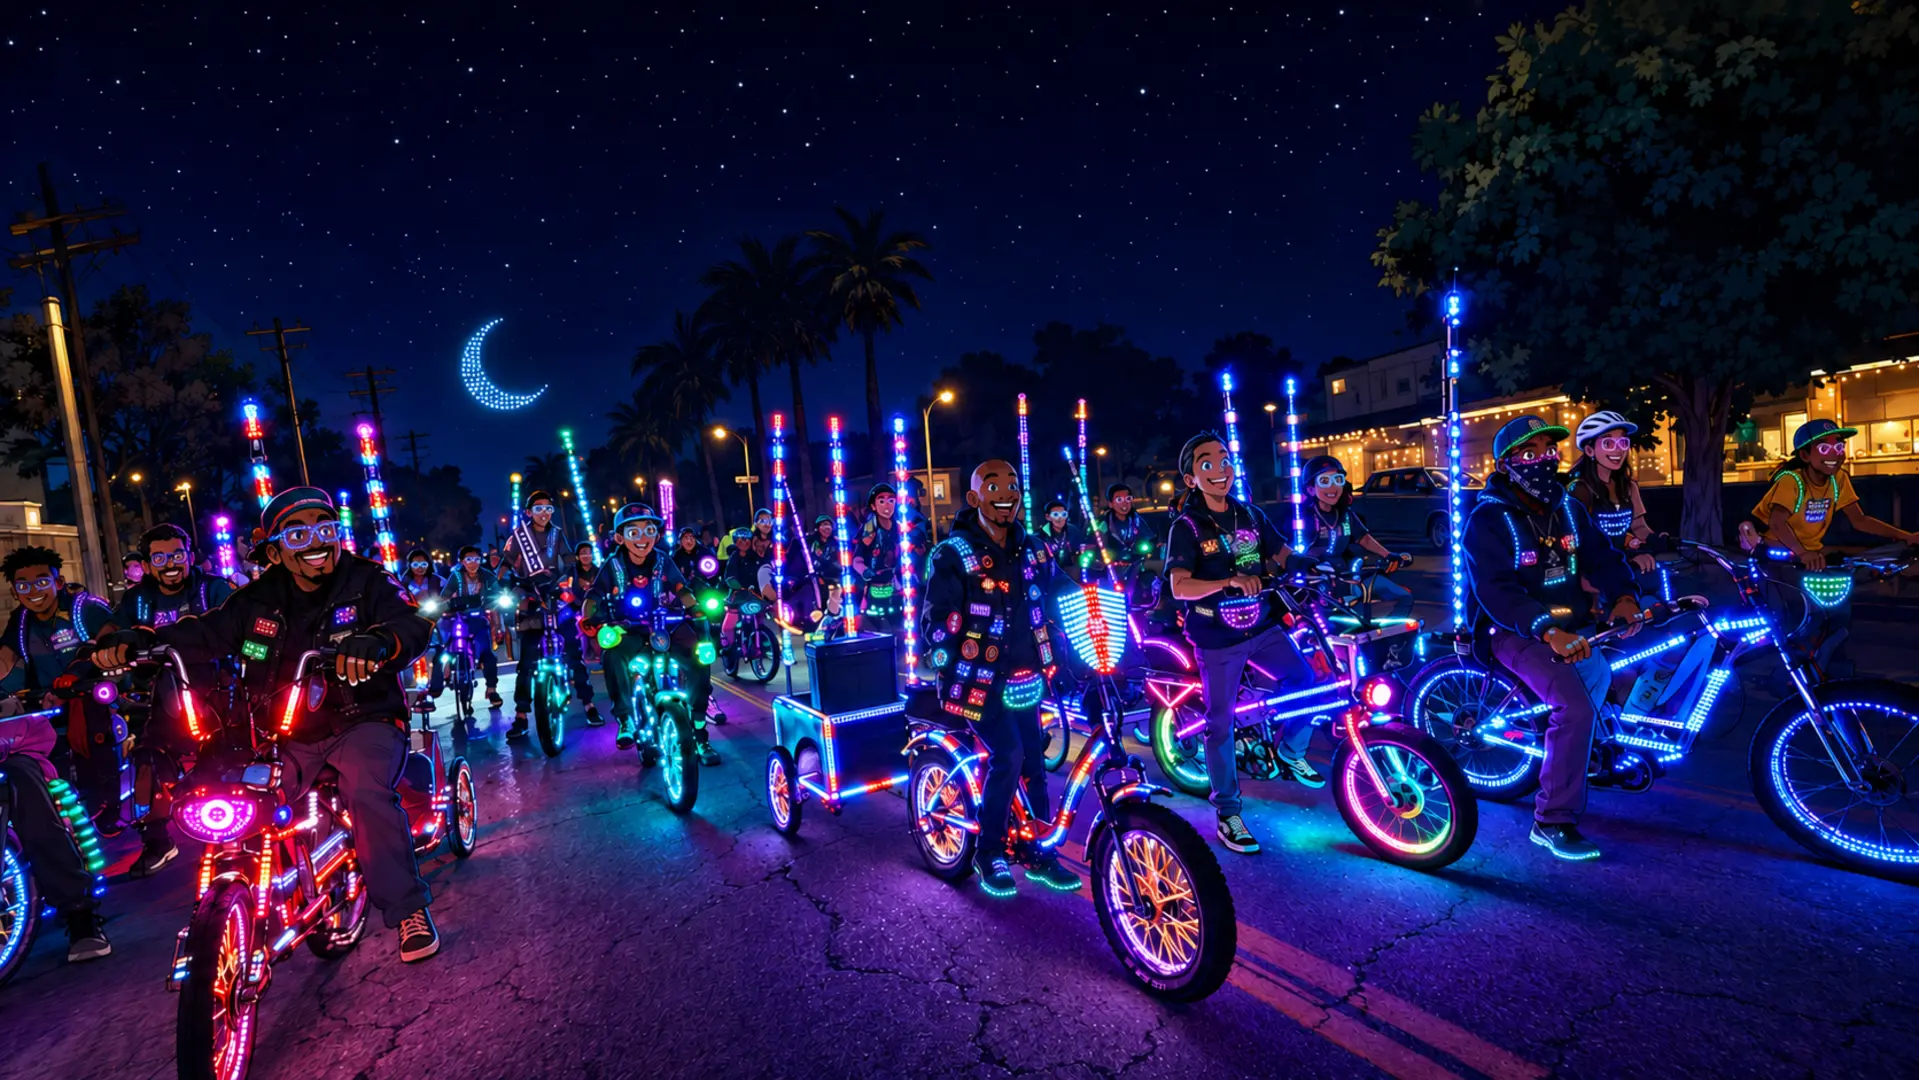
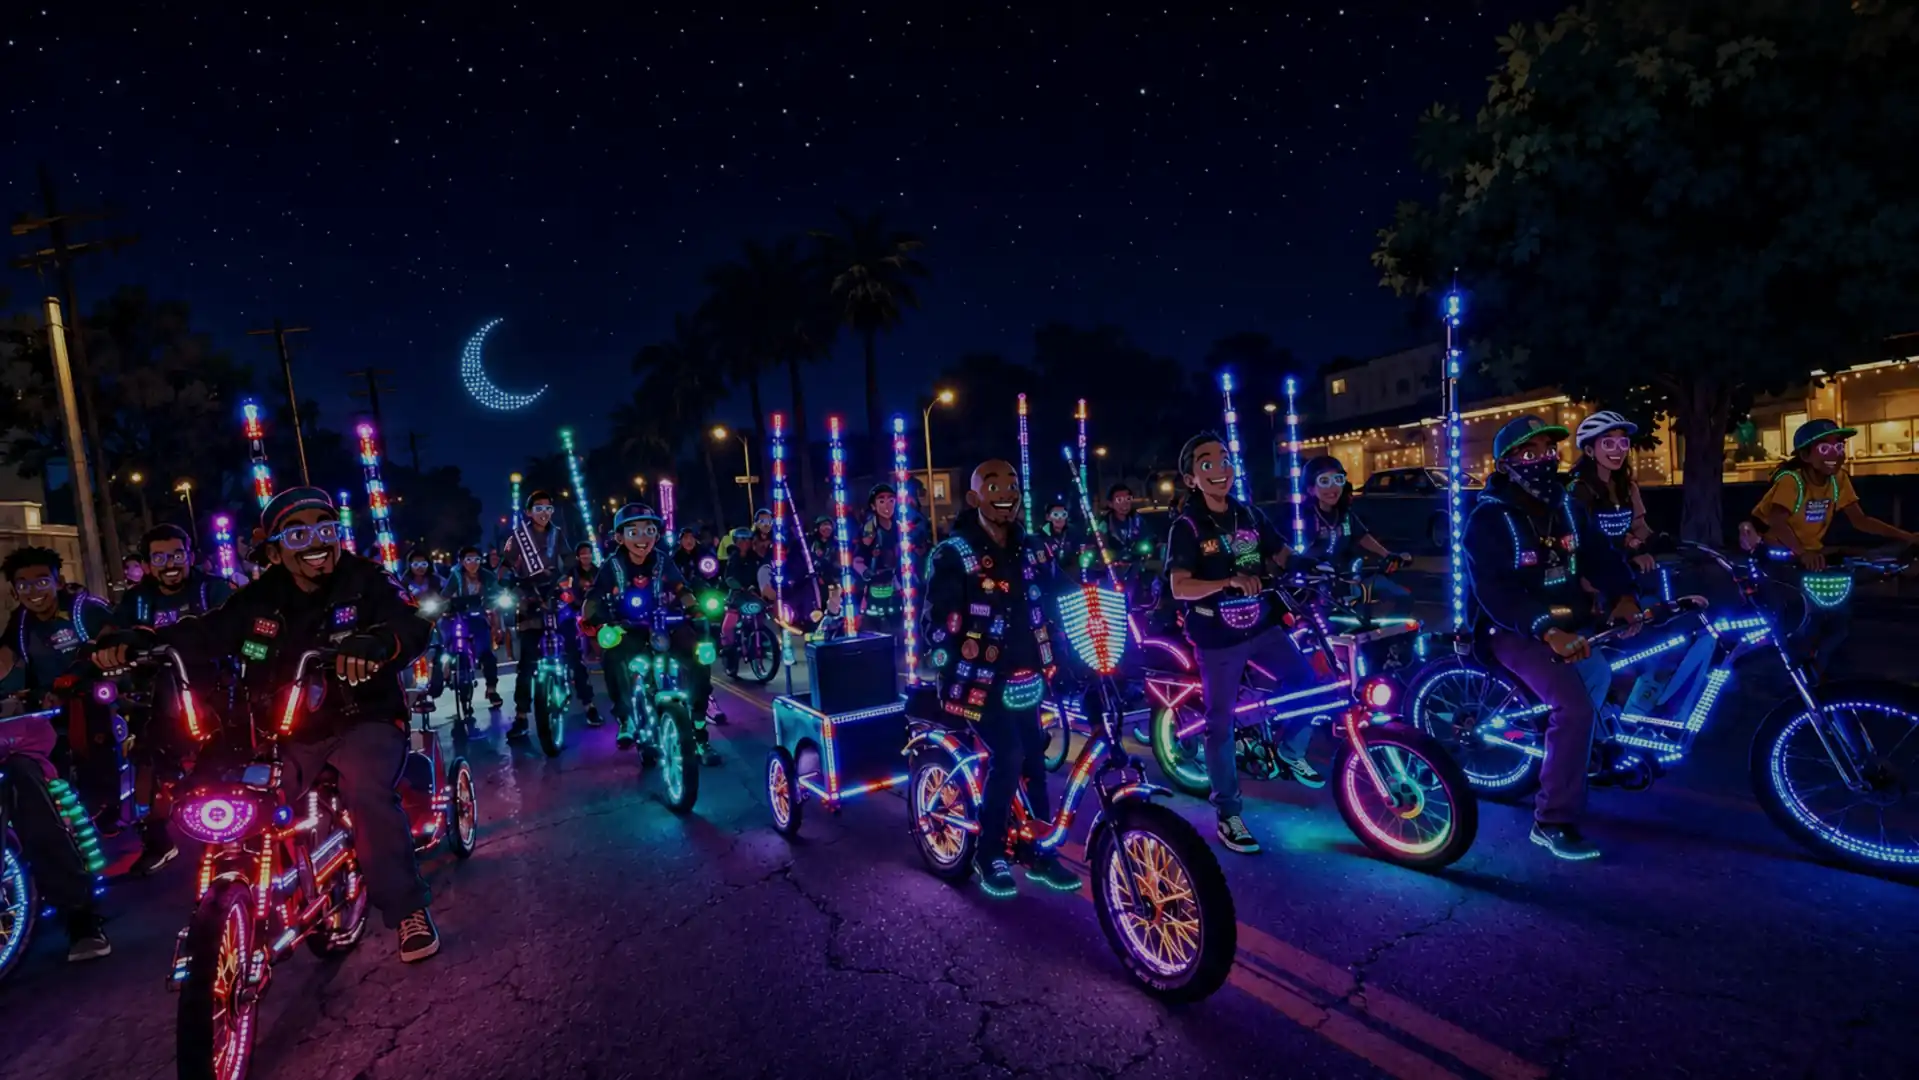
Replace canvas hero with aligned LED flipbook

diff --git a/js/hero-leds.js b/js/hero-leds.js
@@ -1,133 +1,20 @@
 (() => {
-  const canvas = document.getElementById('heroLedCanvas');
-  const hero = canvas?.closest('.hero');
+  const image = document.getElementById('heroLedOverlay');
   const toggle = document.getElementById('heroMagicToggle');
-  if (!canvas || !hero || !toggle) return;
+  if (!image || !toggle) return;
 
-  const ctx = canvas.getContext('2d', { alpha: true });
-  const SOURCE = { w: 1672, h: 941 };
-  const reduceMotion = window.matchMedia('(prefers-reduced-motion: reduce)');
-  const colors = ['#31e6ff', '#158dff', '#8a6dff', '#ff3cad', '#35ff8b', '#ff7a18', '#ff334f', '#fff7d6'];
-  let frame = 0;
-  let running = !reduceMotion.matches;
-  let visible = true;
-  let dpr = 1;
-  let lastDraw = 0;
+  const animated = 'assets/images/shynetyme-led-overlay.gif';
+  const still = 'assets/images/shynetyme-led-overlay-still.webp';
+  const reducedMotion = window.matchMedia('(prefers-reduced-motion: reduce)');
+  let playing = !reducedMotion.matches;
 
-  const line = (x1, y1, x2, y2, count, color, mode='chase', speed=1, phase=0) => ({ kind:'line', x1,y1,x2,y2,count,color,mode,speed,phase });
-  const ring = (x, y, rx, ry, count, color, mode='chase', speed=1, phase=0) => ({ kind:'ring', x,y,rx,ry,count,color,mode,speed,phase });
-  const poly = (points, count, color, mode='chase', speed=1, phase=0) => ({ kind:'poly', points,count,color,mode,speed,phase });
-
-  // Coordinates follow the actual 1672 × 941 hero art: wheel rims, frames,
-  // flag poles, rider accessories, moon and trailers all animate separately.
-  const strips = [
-    line(217,355,222,614,26,'#ff3cad','chase',1.4,.1), line(319,378,325,602,23,'#31e6ff','sparkle',1.2,.4),
-    line(492,373,500,591,24,'#35ff8b','chase',1.0,.7), line(576,360,580,579,25,'#8a6dff','sparkle',1.4,.2),
-    line(679,358,682,575,26,'#158dff','chase',1.5,.5), line(726,354,730,570,26,'#ff334f','beat',1.1,.8),
-    line(780,350,783,566,26,'#31e6ff','sparkle',1.3,.3), line(892,349,896,568,27,'#ff7a18','chase',1.2,.6),
-    line(941,345,945,571,28,'#ff3cad','chase',1.5,.15), line(1065,333,1069,557,27,'#31e6ff','sparkle',1.2,.45),
-    line(1123,329,1127,548,28,'#158dff','chase',1.6,.75), line(1266,258,1270,544,34,'#31e6ff','beat',1.0,.25),
-    ring(197,771,119,125,52,'#ff334f','chase',1.3,.1), ring(403,680,57,62,30,'#ff7a18','sparkle',1.0,.6),
-    ring(574,651,50,55,27,'#31e6ff','chase',1.4,.2), ring(661,686,46,50,25,'#ff3cad','chase',1.2,.7),
-    ring(806,678,47,52,25,'#158dff','sparkle',1.4,.4), ring(1005,787,88,92,44,'#ff7a18','chase',1.15,.15),
-    ring(1182,687,78,82,42,'#ff3cad','chase',1.35,.55), ring(1378,651,72,76,40,'#31e6ff','sparkle',1.1,.3),
-    ring(1608,704,109,113,52,'#158dff','chase',1.45,.8),
-    poly([[934,690],[875,680],[850,615],[914,576],[970,606],[934,690]],34,'#ff334f','beat',1.15,.2),
-    poly([[1102,655],[1043,657],[1082,576],[1172,579],[1211,641]],38,'#ff3cad','chase',1.25,.6),
-    poly([[1326,625],[1286,578],[1370,555],[1454,611],[1398,651]],40,'#158dff','chase',1.4,.35),
-    poly([[1460,640],[1517,556],[1622,610]],28,'#31e6ff','sparkle',1.2,.85),
-    poly([[694,615],[694,725],[780,724],[784,627],[694,615]],34,'#31e6ff','chase',1.25,.4),
-    ring(429,304,31,31,24,'#31e6ff','beat',.8,.1),
-    poly([[241,486],[278,482],[292,519],[260,525]],18,'#8a6dff','sparkle',1.3,.5),
-    poly([[820,518],[855,514],[860,551],[827,553]],18,'#35ff8b','chase',1.0,.2),
-    poly([[1042,472],[1077,477],[1080,515],[1045,513]],18,'#ff3cad','beat',1.2,.7),
-    poly([[1314,393],[1352,396],[1356,427],[1318,426]],18,'#8a6dff','sparkle',1.3,.35)
-  ];
-
-  const stars = Array.from({ length: 95 }, (_, i) => ({
-    x: 30 + ((i * 149) % 1590), y: 14 + ((i * 83) % 275),
-    phase: (i * .173) % 1, size: i % 11 === 0 ? 2.1 : 1.1
-  }));
-
-  function resize() {
-    const rect = hero.getBoundingClientRect();
-    dpr = Math.min(window.devicePixelRatio || 1, 2);
-    canvas.width = Math.round(rect.width * dpr);
-    canvas.height = Math.round(rect.height * dpr);
-    canvas.style.width = `${rect.width}px`;
-    canvas.style.height = `${rect.height}px`;
+  function render() {
+    image.src = playing ? animated : still;
+    toggle.textContent = playing ? 'Pause LED magic' : 'Play LED magic';
+    toggle.setAttribute('aria-pressed', String(!playing));
   }
 
-  function transform() {
-    const w = canvas.width / dpr, h = canvas.height / dpr;
-    const scale = Math.max(w / SOURCE.w, h / SOURCE.h);
-    return { scale, ox: (w - SOURCE.w * scale) / 2, oy: (h - SOURCE.h * scale) / 2 };
-  }
-
-  const samplePolyline = (points, t) => {
-    const lengths=[]; let total=0;
-    for(let i=1;i<points.length;i++){ const l=Math.hypot(points[i][0]-points[i-1][0],points[i][1]-points[i-1][1]); lengths.push(l); total+=l; }
-    let target=t*total;
-    for(let i=0;i<lengths.length;i++){
-      if(target<=lengths[i]){ const q=target/lengths[i]; return [points[i][0]+(points[i+1][0]-points[i][0])*q, points[i][1]+(points[i+1][1]-points[i][1])*q]; }
-      target-=lengths[i];
-    }
-    return points[points.length-1];
-  };
-
-  function pointAt(s, t) {
-    if (s.kind === 'line') return [s.x1+(s.x2-s.x1)*t, s.y1+(s.y2-s.y1)*t];
-    if (s.kind === 'ring') { const a=t*Math.PI*2; return [s.x+Math.cos(a)*s.rx, s.y+Math.sin(a)*s.ry]; }
-    return samplePolyline(s.points, t);
-  }
-
-  function energy(s, i, time) {
-    const p = (i / s.count + time * .00012 * s.speed + s.phase) % 1;
-    if (s.mode === 'chase') return .15 + Math.pow(Math.max(0, Math.sin(p*Math.PI*4)), 7) * .95;
-    if (s.mode === 'beat') return .2 + Math.pow((Math.sin(time*.006*s.speed+s.phase*7)+1)/2, 5) * .85;
-    const hash = Math.sin((i+1)*91.73 + Math.floor(time/95*s.speed)*17.13) * 43758.54;
-    return .18 + (hash-Math.floor(hash) > .76 ? .95 : .18);
-  }
-
-  function drawLed(x,y,color,power,size,tf) {
-    const px=tf.ox+x*tf.scale, py=tf.oy+y*tf.scale;
-    ctx.globalAlpha=Math.min(1,power);
-    ctx.fillStyle=color; ctx.shadowColor=color; ctx.shadowBlur=(5+power*15)*tf.scale;
-    ctx.beginPath(); ctx.arc(px,py,(size+power*1.4)*tf.scale,0,Math.PI*2); ctx.fill();
-    ctx.globalAlpha=.8*power; ctx.fillStyle='#fff'; ctx.shadowBlur=0;
-    ctx.beginPath(); ctx.arc(px,py,Math.max(.7,size*.28)*tf.scale,0,Math.PI*2); ctx.fill();
-  }
-
-  function draw(time=0) {
-    const w=canvas.width/dpr,h=canvas.height/dpr;
-    ctx.setTransform(dpr,0,0,dpr,0,0); ctx.clearRect(0,0,w,h);
-    const tf=transform(); ctx.globalCompositeOperation='lighter';
-    stars.forEach((s,i)=>drawLed(s.x,s.y,i%13===0?'#31e6ff':'#fff',.15+.8*Math.pow((Math.sin(time*.002+s.phase*9)+1)/2,7),s.size,tf));
-    strips.forEach(s=>{
-      for(let i=0;i<s.count;i++){
-        const [x,y]=pointAt(s,i/Math.max(1,s.count-1));
-        const color=Array.isArray(s.color)?s.color[i%s.color.length]:s.color;
-        drawLed(x,y,color,energy(s,i,time),2.1,tf);
-      }
-    });
-    ctx.globalAlpha=1; ctx.shadowBlur=0; ctx.globalCompositeOperation='source-over';
-  }
-
-  function animate(time) {
-    frame=requestAnimationFrame(animate);
-    if (running && visible && time-lastDraw >= 33) { lastDraw=time; draw(time); }
-  }
-
-  function setRunning(next) {
-    running=next;
-    toggle.setAttribute('aria-pressed', String(!next));
-    toggle.textContent=next?'Pause LED magic':'Play LED magic';
-    if(!next) draw(480);
-  }
-
-  toggle.addEventListener('click',()=>setRunning(!running));
-  reduceMotion.addEventListener('change',e=>setRunning(!e.matches));
-  document.addEventListener('visibilitychange',()=>{ visible=!document.hidden; });
-  new ResizeObserver(()=>{ resize(); draw(performance.now()); }).observe(hero);
-  resize(); draw(0); frame=requestAnimationFrame(animate);
+  toggle.addEventListener('click', () => { playing = !playing; render(); });
+  reducedMotion.addEventListener('change', event => { playing = !event.matches; render(); });
+  render();
 })();

diff --git a/index.html b/index.html
@@ -14,6 +14,7 @@
   <meta property="og:url" content="https://shynetyme.works/">
   <meta property="og:image" content="https://shynetyme.works/assets/images/shynetyme-works-hero.webp">
   <meta name="twitter:card" content="summary_large_image">
+  <link rel="preload" as="image" href="assets/images/shynetyme-works-hero.webp" fetchpriority="high">
   <link rel="icon" href="favicon.ico" sizes="any">
   <link rel="icon" type="image/png" sizes="32x32" href="assets/brand/favicon-32.png">
   <link rel="apple-touch-icon" href="assets/brand/apple-touch-icon.png">
@@ -40,7 +41,7 @@
   </nav>
 
   <header id="top" class="hero py-5">
-    <canvas id="heroLedCanvas" class="hero-led-canvas" aria-hidden="true"></canvas>
+    <img id="heroLedOverlay" class="hero-led-overlay" src="assets/images/shynetyme-led-overlay.gif" alt="" aria-hidden="true" width="1919" height="1080" decoding="async" fetchpriority="low">
     <div class="container py-4">
       <div class="row align-items-center g-4">
         <div class="col-lg-7">

diff --git a/css/site.css b/css/site.css
@@ -25,7 +25,7 @@ body { background: #fff; color: #111827; }
   background: var(--night) url('../assets/images/shynetyme-works-hero.webp') center center / cover no-repeat;
 }
 .hero::before { content: ""; position: absolute; inset: 0; z-index: -1; background: linear-gradient(90deg, rgba(3,9,24,.92) 0%, rgba(3,9,24,.72) 38%, rgba(3,9,24,.12) 72%), linear-gradient(0deg, rgba(3,9,24,.42), transparent 52%); }
-.hero-led-canvas { position: absolute; inset: 0; z-index: -1; width: 100%; height: 100%; pointer-events: none; mix-blend-mode: screen; }
+.hero-led-overlay { position: absolute; inset: 0; z-index: -1; width: 100%; height: 100%; object-fit: cover; object-position: center; pointer-events: none; mix-blend-mode: screen; }
 .hero .container { padding-top: 1.6rem; padding-bottom: 7.5rem; }
 .hero .col-lg-7 { max-width: 760px; }
 .hero-kicker { color: var(--cyan); letter-spacing: .2em; text-shadow: 0 0 12px rgba(49,230,255,.8); }